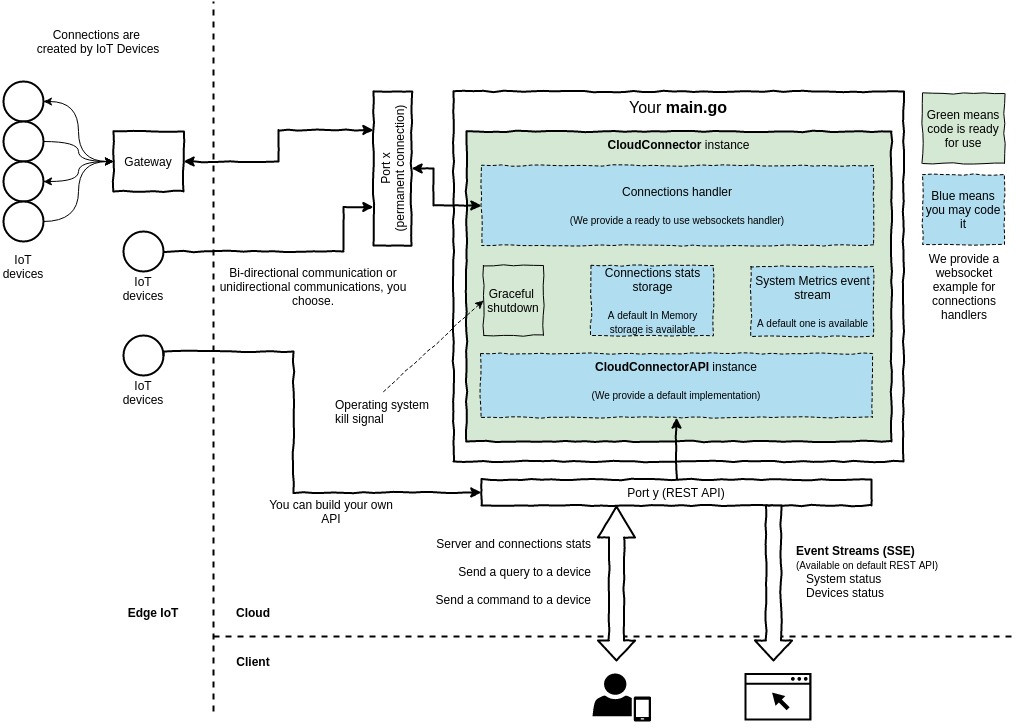
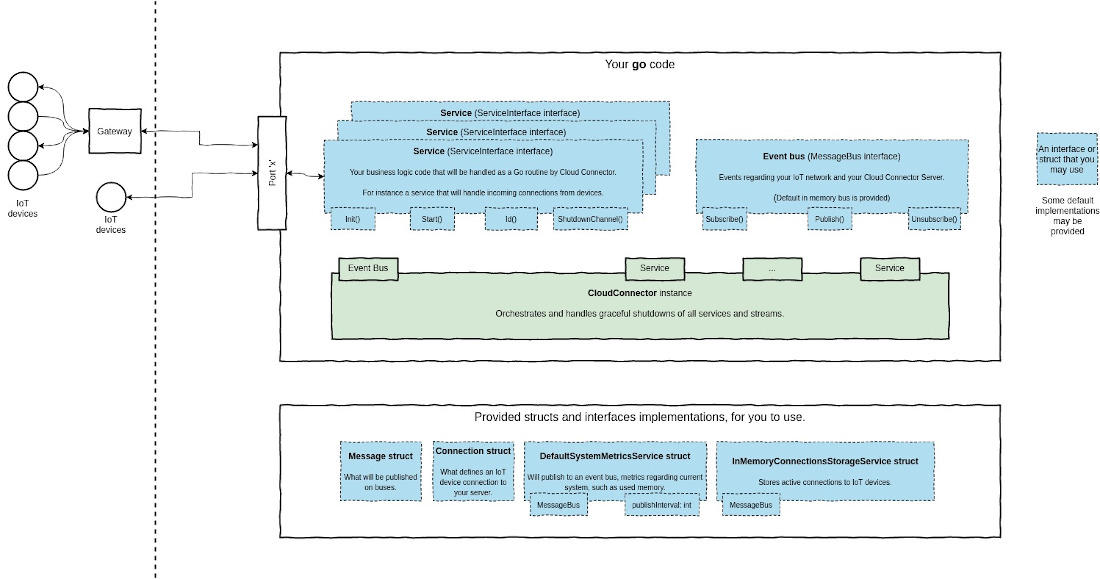
WIP refactor

diff --git a/services/inMemoryConnectionsStorageService_test.go b/services/inMemoryConnectionsStorageService_test.go
@@ -38,7 +38,7 @@ func TestEstablishedConnectionsShouldBeCounted(t *testing.T) {
 
 	m := events.NewMessage("{\"device_id\": \"abc-123\"}", "192.168.1.100", events.Default)
 
-	eventBus.Publish(events.ConnectionEstablished, m)
+	eventBus.Publish(events.ConnectionEstablishedTopic, m)
 
 	time.Sleep(20 * time.Millisecond)
 
@@ -63,13 +63,13 @@ func TestClosedConnectionsShouldBeDiscounted(t *testing.T) {
 
 	m := events.NewMessage("{\"device_id\": \"abc-123\"}", "192.168.1.100", events.Default)
 
-	eventBus.Publish(events.ConnectionEstablished, m)
+	eventBus.Publish(events.ConnectionEstablishedTopic, m)
 
 	time.Sleep(20 * time.Millisecond)
 
 	assert.Assert(t, service.ActiveConnectionsCount() == 1)
 
-	eventBus.Publish(events.ConnectionClosed, m)
+	eventBus.Publish(events.ConnectionClosedTopic, m)
 
 	time.Sleep(20 * time.Millisecond)
 
@@ -98,7 +98,7 @@ func TestEstablishingMultipleConnectionsShouldBeThreadSafe(t *testing.T) {
 			payload := fmt.Sprintf("{\"device_id\": \"%s\"}", uuid.New().String())
 			m := events.NewMessage(payload, "192.168.1.100", events.Default)
 
-			eventBus.Publish(events.ConnectionEstablished, m)
+			eventBus.Publish(events.ConnectionEstablishedTopic, m)
 		}
 
 		wg.Done()
@@ -109,7 +109,7 @@ func TestEstablishingMultipleConnectionsShouldBeThreadSafe(t *testing.T) {
 			payload := fmt.Sprintf("{\"device_id\": \"%s\"}", uuid.New().String())
 			m := events.NewMessage(payload, "192.168.1.100", events.Default)
 
-			eventBus.Publish(events.ConnectionEstablished, m)
+			eventBus.Publish(events.ConnectionEstablishedTopic, m)
 		}
 
 		wg.Done()
@@ -120,7 +120,7 @@ func TestEstablishingMultipleConnectionsShouldBeThreadSafe(t *testing.T) {
 			payload := fmt.Sprintf("{\"device_id\": \"%s\"}", uuid.New().String())
 			m := events.NewMessage(payload, "192.168.1.100", events.Default)
 
-			eventBus.Publish(events.ConnectionEstablished, m)
+			eventBus.Publish(events.ConnectionEstablishedTopic, m)
 		}
 
 		wg.Done()

diff --git a/services/inMemoryConnectionsStorageService.go b/services/inMemoryConnectionsStorageService.go
@@ -54,8 +54,8 @@ func (service *InMemoryConnectionsStorageService) Init(shutdownService chan bool
 	service.shutdownService = shutdownService
 	service.serviceIsShutdown = make(chan bool)
 
-	service.eventBus.Subscribe(events.ConnectionEstablished, &service.connectionsEstablishedChannel)
-	service.eventBus.Subscribe(events.ConnectionClosed, &service.connectionsClosedChannel)
+	service.eventBus.Subscribe(events.ConnectionEstablishedTopic, &service.connectionsEstablishedChannel)
+	service.eventBus.Subscribe(events.ConnectionClosedTopic, &service.connectionsClosedChannel)
 
 	return nil
 }

diff --git a/README.md b/README.md
@@ -14,16 +14,7 @@ code your own business logic using [Go](https://golang.org/) programming languag
 - You may communicate with IoT Devices in a **synchronous** way.
 - You may communicate with IoT Devices in both ways: **asynchronously** and **synchronously**.
 - At least one way of communications is required.
-- Communications are performed exchanging **[Messages](connectionshandlers/message.go)**.
-
-## Concepts
-
-- Asynchronous communications are performed via **[Messages](connectionshandlers/message.go)** exchanges.
-- IoT devices, may send **[Messages](connectionshandlers/message.go)** to the cloud whenever they want, you just **handle these messages**.
-- Synchronous communications are performed via **[Commands](connectionshandlers/command.go)** and **[Queries](connectionshandlers/query.go)**, that are an encapsulation of regular **Messages**, but once send, will wait until a response from the device is received or time outs. This is helpful when implementing REST APIs for instance.
-- If you want to synchronously alter the state of your IoT devices, **send them a [Command](connectionshandlers/command.go)**.
-- If you want to synchronously retrieve data from your IoT devices, **send them a [Query](connectionshandlers/query.go)**.
-- **[IoT Cloud Connector](servers/cloudConnector.go)** helps you to start the server, an API, monitor its status and gracefully shut it down.
+- Communications are performed exchanging **[Messages](events/message.go)**.
 
 ## Packages (code layers)
 
@@ -31,210 +22,18 @@ code your own business logic using [Go](https://golang.org/) programming languag
 
 | Name | Description |
 | ------------- | ------------- |
-| servers | [IoT Cloud Connector](servers/cloudConnector.go) code and [REST API interface](servers/cloudConnectorAPIInterface.go) with an out of the box [API implementation](/docs/default-cloud-connector-api.md) |
-| connectionshandlers | [Interfaces](connectionshandlers/connectionsHandlerInterface.go) needed by Cloud Connector, that you have to implement in order to have your own communications. Also an out of the box [websockets implementation](connectionshandlers/websocketsHandler.go) where you can inject your own business logic, is provided. |
-| connections | [Structs and interfaces](connections/deviceConnection.go) in order to store IoT Devices connections information. |
-| storage | [Interfaces](storage/deviceConnectionsStorageInterface.go) that you will have to implement in order to store connection's information. An out of the box [in memory](storage/inMemoryDeviceConnectionsStorage.go) implementation is provided. |
-| ui | Vanilla UI, a Vanilla Javascript user interface, that connects to an IoT Cloud Connector instance, via our [out of the box API](/docs/default-cloud-connector-api.md) that shows you information regarding connected devices and allows to send them queries and commands. |
-
-![Vanilla UI Dashboard](docs/images/vanilla-ui-dashboard.jpg)
-![Vanilla UI Devices](docs/images/vanilla-ui-device.jpg)
+| bus | [Bus interface](bus/busInterface.go) Where the messages interchanges takes place. Publishing and Subscribing to topics is how you may communicate your processes. |
+| connector | [CloudConnector](connector/cloudConnector.go) Orchestrates and handles graceful shutdowns of all services (AKA your business logic handling your IoT devices). |
+| entities | [Connection](entities/connection.go) a struct that holds the basic information of an IoT device connection. |
+| events | [Message](events/message.go) Struct used for publishing and subscribing to any message bus.|
+| services | [Service interface](services/serviceInterface.go.go) Struct that defines the required methods for a service that CloudConnector will need in order to start and gracefully shutdown it.|
+| ui | TODO: Needs to be updated. |
 
 
 ## Usage
 
-What you **must** code to make it work:
 
-
-1. A **modules definition** for your project [go.mod](https://blog.golang.org/using-go-modules) file:
-
-```
-go 1.13
-
-require (
-    github.com/nnset/iot-cloud-connector
-    github.com/sirupsen/logrus v1.4.2
-)
-
-```
-
-2. A **connections handler** that will define the communications protocol between your IoT devices and Cloud Connector.
-
-Your handlers must implement [connectionshandlers.ConnectionsHandlerInterface](connectionshandlers/connectionsHandlerInterface.go). Check [websockets sample](connectionshandlers/sampleWebsocketsHandler.go) for an example.
-
-
-3. Your own **package** or main.go file:
-
-```go
-package main
-
-import (
-    "fmt"
-    "os"
-
-    "github.com/nnset/iot-cloud-connector/connectionshandlers"
-    "github.com/nnset/iot-cloud-connector/servers"
-    "github.com/nnset/iot-cloud-connector/storage"
-    "github.com/sirupsen/logrus"
-)
-
-func main() {
-    log := createLogger()
-
-    // IoT devices will connect to localhost:8080
-    connectionsHandler := connectionshandlers.NewSampleWebSocketsHandler(
-        "localhost", "8080", "tcp", "", "",
-    )
-
-    cors := servers.CrossOriginResourceSharing{
-        Headers: "Content-Type, Access-Control-Request-Method, Authorization",
-        Origin:  "mysite.com",
-    }
-
-    // A default REST API will be available at localhost:9090
-    // with no authorization required.
-    // Check servers.authentication.go for more build in authentication methods
-    defaultAPI := servers.NewDefaultCloudConnectorAPI(
-        "localhost", 
-        "9090", 
-        "", 
-        "", 
-        &servers.APINoAuthenticationMiddleware{}, 
-        &cors
-    )
-
-    s := servers.NewCloudConnector(
-        log, connectionsHandler, storage.NewInMemoryDeviceConnectionsStorage(), defaultAPI,
-    )
-
-    s.Start() // Will block flow until an operating system signal is received
-
-    os.Exit(0)
-}
-
-func createLogger() *logrus.Logger {
-    var log = logrus.New()
-
-    log.SetLevel(logrus.DebugLevel)
-    log.Out = os.Stderr
-
-    file, err := os.OpenFile("../var/log/sockets.log", os.O_CREATE|os.O_WRONLY|os.O_APPEND, 0666)
-
-    if err == nil {
-        log.Out = file
-    } else {
-        fmt.Println("Using stdErr for log")
-    }
-
-    return log
-}
-
-```
-
-4. Finally type:
-
-```
-    $ go get
-
-    $ go build
-
-    $ ./your_app
-```
-
-**Optional steps**
-
-- An implementation of [storage.DeviceConnectionsStorageInterface](storage/deviceConnectionsStorageInterface.go)
-    - Check [in memory implementation](storage/inMemoryDeviceConnectionsStorage.go) for an example.
-- An implementation of servers.CloudConnectorAPIInterface
-    - Check [default REST API](servers/defaultCloudConnectorAPI.go) for an example.
-
-## Developing your own logic
-
-### Structs
-
-#### servers.CloudConnector
-
-> You can see this as the control layer. It starts and stops the service and helps CloudConnectorAPIInterface to fetch information.
-
-Source [cloudConnector.go](servers/cloudConnector.go)
-
-**Features**
-
-Starts all functional layers:
-
-* ConnectionsHandler (Your business logic)
-* CloudConnectorAPI (Your own or a [default one](/docs/default-cloud-connector-api.md))
-
-Handles:
-
-* Server shutdown when a os.signal is sent to stop the process. CloudConnector performs a graceful shutdown for all layers but, if this timeouts, shutdown is enforced.
-* Holds Connections stats (via an instance of storage.DeviceConnectionsStorageInterface)
-* Start REST API server and supports it making connection stats data available to it.
-
-
-#### connections.DeviceConnection
-
-> Information regarding each IoT device connection. All these fields are then used to report
-how a connection is behaving.
-
-Source [deviceConnection.go](connections/deviceConnection.go)
-
-
-#### connections.DeviceConnectionDTO
-
-> A Data Transfer Object that encapsulates a device connection information.
-
-Source [deviceConnectionDTO.go](connections/deviceConnectionDTO.go)
-
-
-### Interfaces
-
-Use all these interfaces to fully customize your logic. We also offer some ready to use 
-implementations.
-
-
-#### connectionshandlers.ConnectionsHandlerInterface
-
-> Implementing your own ConnectionsHandlerInterface allows you to code any 
-kind of business rules you need to manage your IoT devices.
-
-Source [connectionsHandlerInterface.go](connectionshandlers/connectionsHandlerInterface.go)
-
-
-For Start() method, these two channels are important:
-
-| Name | Description |
-| ------------- | ------------- |
-| shutdownChannel  | ConnectionsHandler only reads from it. When a message is received means that service must shutdown so you should perform a graceful shutdown of all the connections and if you need, report the in progress shutdown to other services in your infrastructure. |
-| shutdownIsCompleteChannel  | ConnectionsHandler on writes on it. A message must be added only when ConnectionsHandler has completed its shutdown procedure. |
-
-
-#### storage.DeviceConnectionsStorageInterface
-
-> How individual IoT devices connections stats are stored offering some global stats as well.
-
-Source [deviceConnectionsStorageInterface.go](storage/deviceConnectionsStorageInterface.go)
-
-Check a ready to use thread safe in memory implementation at [storage.InMemoryDeviceConnectionsStorage](storage/inMemoryDeviceConnectionsStorage.go)
-
-
-#### servers.CloudConnectorAPIInterface
-
-> Each Cloud Connector instance has a build in REST API where users may fetch information regarding
-connector status and current connections.
-
-Source [cloudConnectorAPIInterface.go](servers/cloudConnectorAPIInterface.go)
-
-However you may want to offer your own API, thats fine just implement this interface and pass the instance
-to Cloud Connector.
-
-For authentication methods, we provide some options compatible with 
-the Default API. Check [authentication.go](servers/authentication.go).
-
-For [CORS](https://developer.mozilla.org/en-US/docs/Web/HTTP/CORS) settings use
-[CrossOriginResourceSharing](servers/authentication.go) struct
-
-We provide a default REST API for Cloud Connector check the [documentation here](/docs/default-cloud-connector-api.md).
+TODO
 
 # Links
 
